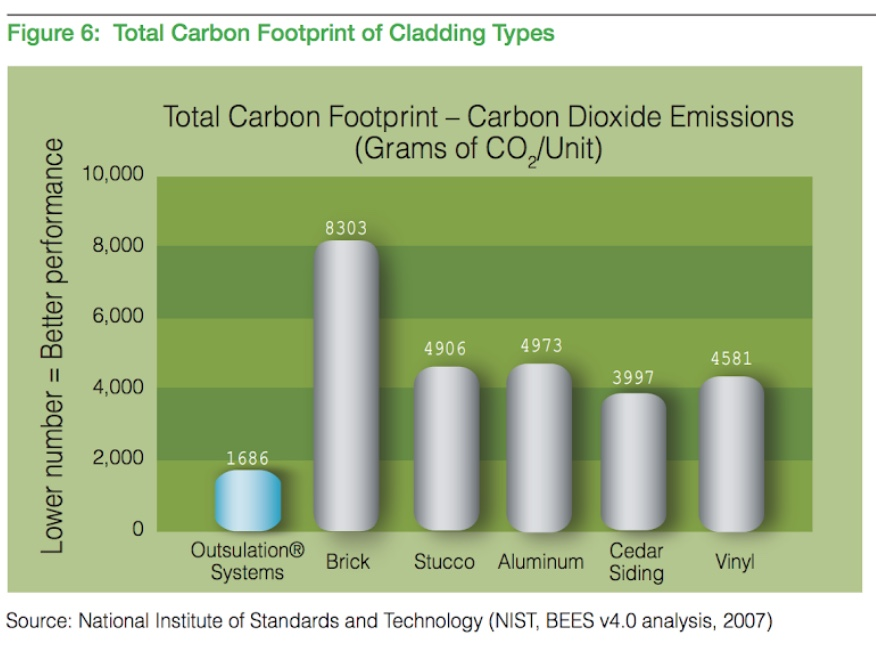
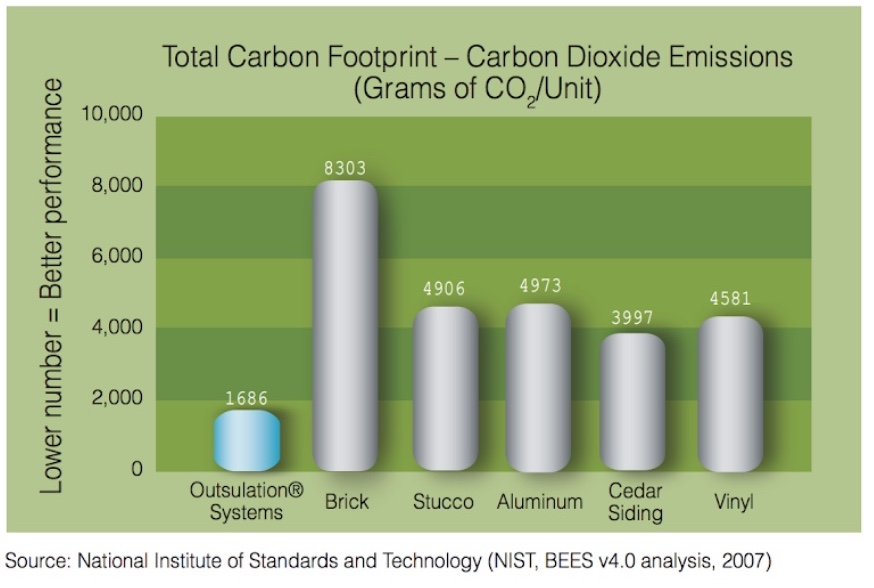
push image assets

diff --git a/Systems/climate-management.html b/Systems/climate-management.html
@@ -101,11 +101,24 @@
         <a class="page-anchor" name="outsulation"></a>
         <h1>Outsulation</h1>
 
+        <figure class="clear">
+            <img src="../IMG/Deep-Dive/outsulation-diagram.jpeg" />
+            <figcaption>Outsulation<sup>TM</sup> Exploded Diagram</figcaption>
+        </figure>
+
         <p>LilyPad uses the Dryvit system, with a 2” EPS insulation layer. It not only provides insulation (outsulation), but incorporates a water-resistive barrier, a drainage plane, and a finish coat that is extraordinarily flat and smooth. With the color embedded in the finish coat, the surface is virtually maintenance-free.</p>
 
         <p>Other common continuous insulation barriers include polyisocyanurate board (polyiso) with or without the foil radiant barrier facing, taped at the seams. A relatively new product called InSoFast has 2-½” of EPS foam with embedded plastic “studs” that give a firm substrate for attaching siding, and come with an molded-in rain drainage channel. The panels come in 2’x4’ pieces.</p>
 
-        <img src="../IMG/Deep-Dive/outsulation-thermal-bridging.jpeg" />
+        <figure class="width50 float-left">
+            <img src="../IMG/Deep-Dive/outsulation-footprint.jpeg" />
+            <figcaption>Total Carbon Footprint of Cladding Types</figcaption>
+        </figure>
+
+        <figure class="width50 float-right">
+            <img src="../IMG/Deep-Dive/r-value-comparison.jpeg" />
+            <figcaption>R-Value Comparison of Different Insulation Approaches</figcaption>
+        </figure>
 
         <p><strong>How to Insulate the High-Performance House</strong></p>
         <p>One of the most important things to do to make a house high performing is to insulate well. But how do you decide what level and type of insulation to use?
@@ -119,7 +132,12 @@
 
         <p>If you assume that the wall is constructed of 2x4s on 16” centers, then the average R-value of that wall with R-13 insulation batts is 12.25.</p>
 
-        <p><strong>Exterior continuous insulation</strong></p>
+        <figure class="clear">
+            <img src="../IMG/Deep-Dive/outsulation-thermal-bridging.jpeg" />
+            <figcaption>Thermal Loss Before/After Continous Insulation</figcaption>
+        </figure>
+
+        <p><strong>Exterior Continuous Insulation</strong></p>
         <p>If you were to install a layer of 1” rigid foam insulation with an R-value of 6 to the exterior side of that wall, the wall would be R-18.25. Installing that same insulation into the stud bay (say with spray foam) would yield an overall R-value of only 17.7 for this typical wall. Not only is the material therefore more effective, but it also results in the studs themselves being warmer (in winter heating mode) thereby resulting in less moisture condensation inside the wall, which can prevent mold and dryrot. The following infrared thermography provided by Dow Chemical shows this effect visually:</p>
 
     

diff --git a/CSS/styles.css b/CSS/styles.css
@@ -110,6 +110,8 @@ figcaption {
 
 .float-left {float:left;}
 
+.float-right {float:right;}
+
 
 h1, h2, h3, h4 {
   display: block;
